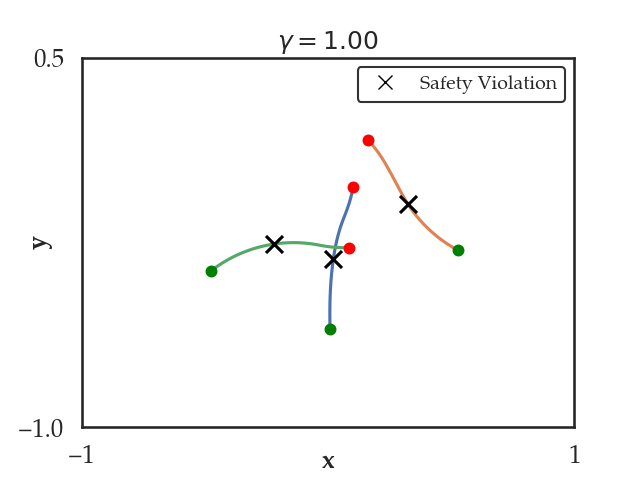
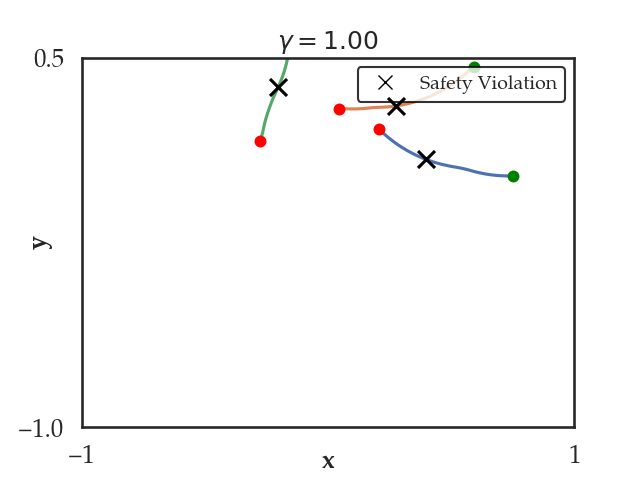
latest

diff --git a/neural_clbf/experiments/rollout_success_rate_experiment.py b/neural_clbf/experiments/rollout_success_rate_experiment.py
@@ -78,15 +78,6 @@ class RolloutSuccessRateExperiment(Experiment):
         # Make sure it's a tensor on the same device as the controller
         device = next(controller_under_test.parameters()).device
 
-        # print(self.initial_states)
-
-        # self.n_sims = 1
-        # self.initial_states = np.array([[0.0080, -0.5999,  0.5293, -0.2825, -0.4753, -0.3662,  1.5841,  2.6514, 0.6565]])
-        # self.initial_states = torch.tensor(self.initial_states, dtype=torch.float32)
-        # print(self.initial_states)
-        # print(self.initial_states.dtype)
-        # quit()
-
         x = self.initial_states.to(device)
 
         # If needed, transform states into 'relative' form
@@ -119,15 +110,9 @@ class RolloutSuccessRateExperiment(Experiment):
             xdot = controller_under_test.dynamics_model.closed_loop_dynamics(x, u_current)
 
             x = x + dt * xdot
-            # print(x, dt, xdot)
-            # quit()
 
             # Check which have become unsafe
             unsafe_mask = controller_under_test.dynamics_model.unsafe_mask(x)  # shape [n_sims] 
-            # TODO: verify this is right with simple test cases (i.e. straight line initial points)
-            # print(unsafe_mask.shape)
-            # print(x.shape)
-            # quit()
             still_safe = still_safe & (~unsafe_mask)
 
             # if tstep == 5: quit()
@@ -141,14 +126,13 @@ class RolloutSuccessRateExperiment(Experiment):
         # False Negative (FN): started unsafe, ended safe
         n_safe = initially_safe_mask.sum().item()
 
-        print(n_safe)
         n_unsafe = self.n_sims - n_safe
 
         still_safe = still_safe.view(-1, 1)  # shape [n_sims, 1]
-        print(initially_safe_mask.shape, still_safe.shape)
 
         # TP: (initially safe) & (still safe)
         num_true_positives = (initially_safe_mask & still_safe).sum().item()
+        # print(initially_safe_mask, still_safe)
         # FP: (initially safe) & (became unsafe)
         num_false_positives = n_safe - num_true_positives
 

diff --git a/neural_clbf/evaluation/eval_mvc.py b/neural_clbf/evaluation/eval_mvc.py
@@ -32,6 +32,10 @@ file_path = 'boundary_initials.npy'
 
 initial_conditions = np.load(file_path)
 
+# print(initial_conditions.shape); quit()
+start_x = torch.tensor([initial_conditions[3, :-1]])
+# print(start_x); quit()
+
 start_xs = torch.tensor(initial_conditions[:, :-1], dtype=torch.float32)
 
 nominal_params = {"angle_alpha_factor": 1.2, "velocity": 0.6, "omega_max": 1.1, "collisionR": 0.25}
@@ -44,6 +48,8 @@ def plot_mvc_rel():
     checkpoint_dir = "/home/ubuntu/neural_clbf_mk/neural_clbf/training/logs/multivehicle_collision/commit_c69834e/version_58/checkpoints/" # gamma=0.5
     # checkpoint_dir = "/home/ubuntu/neural_clbf_mk/neural_clbf/training/logs/multivehicle_collision/commit_c69834e/version_63/checkpoints/" # gamma=1.0
     # checkpoint_dir = "/home/ubuntu/neural_clbf_mk/neural_clbf/training/logs/multivehicle_collision/commit_c69834e/version_65/checkpoints/" # gamma=0.5, sanity check
+
+    checkpoint_dir = "/home/ubuntu/neural_clbf_mk/neural_clbf/training/logs/multivehicle_collision/commit_0ce2993/version_4/checkpoints/" # gamma=0.5
 
     ckpt_files = glob.glob(os.path.join(checkpoint_dir, "*.ckpt"))
 
@@ -100,8 +106,8 @@ def plot_mvc_rel():
 
     # experiment_suite = ExperimentSuite([rollout_experiment, h_contour_experiment])
     # experiment_suite = ExperimentSuite([rollout_experiment, rollout_success_experiment])
-    experiment_suite = ExperimentSuite([h_contour_experiment])
-    # experiment_suite = ExperimentSuite([rollout_success_experiment])
+    # experiment_suite = ExperimentSuite([h_contour_experiment])
+    experiment_suite = ExperimentSuite([rollout_success_experiment])
     # experiment_suite = ExperimentSuite([rollout_experiment])
 
 

diff --git a/neural_clbf/controllers/neural_cbf_controller.py b/neural_clbf/controllers/neural_cbf_controller.py
@@ -458,16 +458,16 @@ class NeuralCBFController(pl.LightningModule, CBFController):
 
         return [clbf_opt]
         
-    # def u(self, x):
-    #     """Use gradient direction (bang-bang style) as control input for the angular states"""
-    #     _, gradV = self.V_with_jacobian(x)  # gradV: [bs, 1, n_dims]
+    def u(self, x):
+        """Use gradient direction (bang-bang style) as control input for the angular states"""
+        _, gradV = self.V_with_jacobian(x)  # gradV: [bs, 1, n_dims]
         
-    #     # Extract gradients w.r.t. angles (assumed at indices 6, 7, 8)
-    #     angle_gradients = gradV[:, 0, [6, 7, 8]]  # shape: [bs, 3]
+        # Extract gradients w.r.t. angles (assumed at indices 6, 7, 8)
+        angle_gradients = gradV[:, 0, [6, 7, 8]]  # shape: [bs, 3]
         
-    #     # Bang-bang control: full rate in direction of gradient sign
-    #     u_bangbang = self.dynamics_model.omega_max * torch.sign(angle_gradients)  # shape: [bs, 3]
+        # Bang-bang control: full rate in direction of gradient sign
+        u_bangbang = self.dynamics_model.omega_max * torch.sign(angle_gradients)  # shape: [bs, 3]
 
-    #     return u_bangbang
+        return u_bangbang
 
 

diff --git a/neural_clbf/training/train_mvc.py b/neural_clbf/training/train_mvc.py
@@ -58,13 +58,13 @@ def main(args):
     data_module = EpisodicDataModule(
         dynamics_model,
         initial_conditions,
-        trajectories_per_episode=100,
-        trajectory_length=500,
-        fixed_samples=50000,
+        trajectories_per_episode=50,
+        trajectory_length=300,
+        fixed_samples=40000,
         max_points=50000,
         val_split=0.1,
         batch_size=batch_size,
-        quotas={"boundary": 0.3, "safe": 0.2, "unsafe": 0.3},
+        quotas={"boundary": 0.5, "safe": 0.4},
     )
 
     experiment_suite = ExperimentSuite([])
@@ -78,11 +78,11 @@ def main(args):
         cbf_hidden_layers=3,
         cbf_hidden_size=512,
         cbf_lambda=0.0,
-        cbf_relaxation_penalty=2e3,
+        cbf_relaxation_penalty=2e2,
         controller_period=controller_period,
         primal_learning_rate=5e-4,
         scale_parameter=10.0, 
-        learn_shape_epochs=11,
+        learn_shape_epochs=21,
         use_relu=True,
     )
 

diff --git a/neural_clbf/experiments/cbf_contour_experiment.py b/neural_clbf/experiments/cbf_contour_experiment.py
@@ -256,7 +256,7 @@ class CBFContourExperiment(Experiment):
         # Define consistent contour levels
         value_min = results_df["CBF Value (h)"].min()
         value_max = results_df["CBF Value (h)"].max()
-        contour_levels = np.linspace(-0.5, 0.5, 21)  # Same intervals as before
+        contour_levels = np.linspace(value_min, value_max, 21)  # Same intervals as before
 
         # Plot contours
         contours = ax.tricontourf(

diff --git a/neural_clbf/systems/mvc.py b/neural_clbf/systems/mvc.py
@@ -95,7 +95,7 @@ class MultiVehicleCollision(ControlAffineSystem):
 
     def safe_mask(self, x: torch.Tensor) -> torch.Tensor:
         # Defines safe regions based on collision distance
-        return self.boundary_fn(x) > 0 + 0.25
+        return self.boundary_fn(x) > 0 + 0.2
 
     def unsafe_mask(self, x: torch.Tensor) -> torch.Tensor:
         # Unsafe region if boundary function is less than zero
